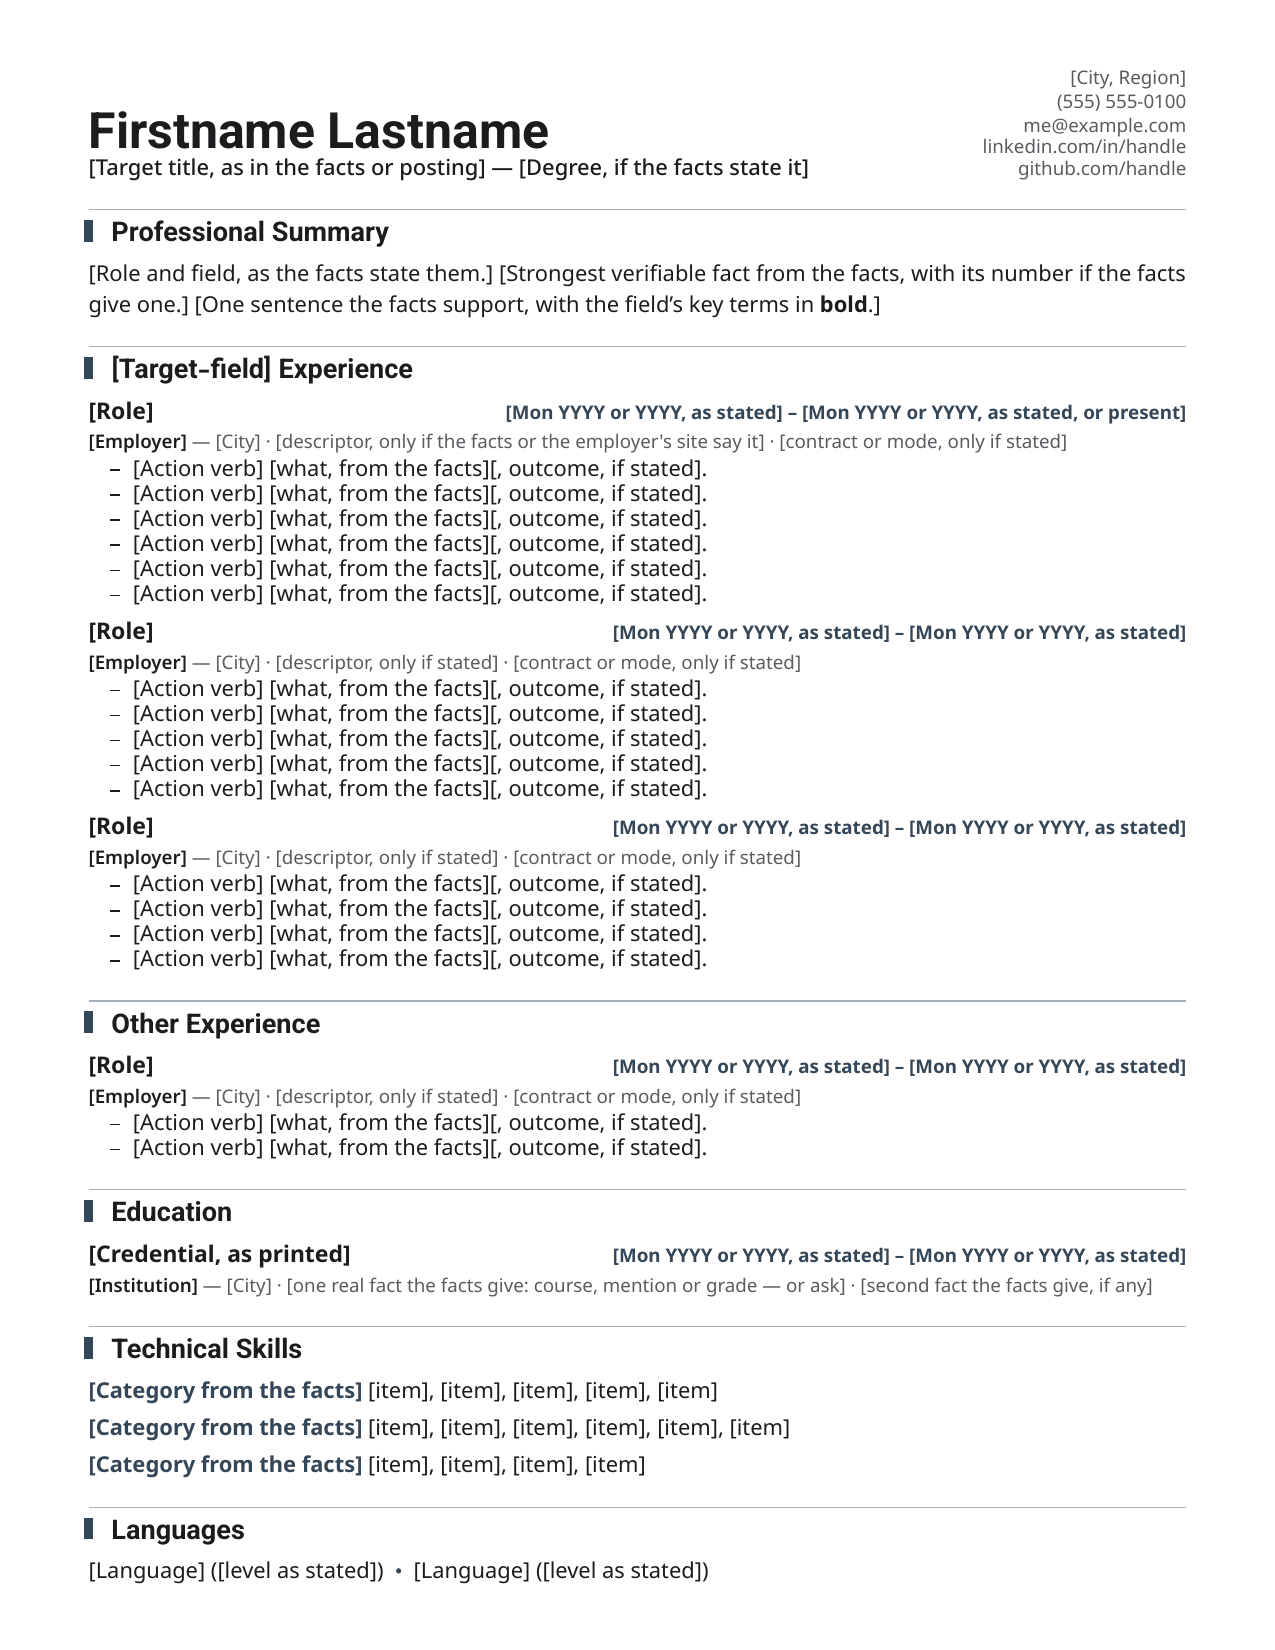
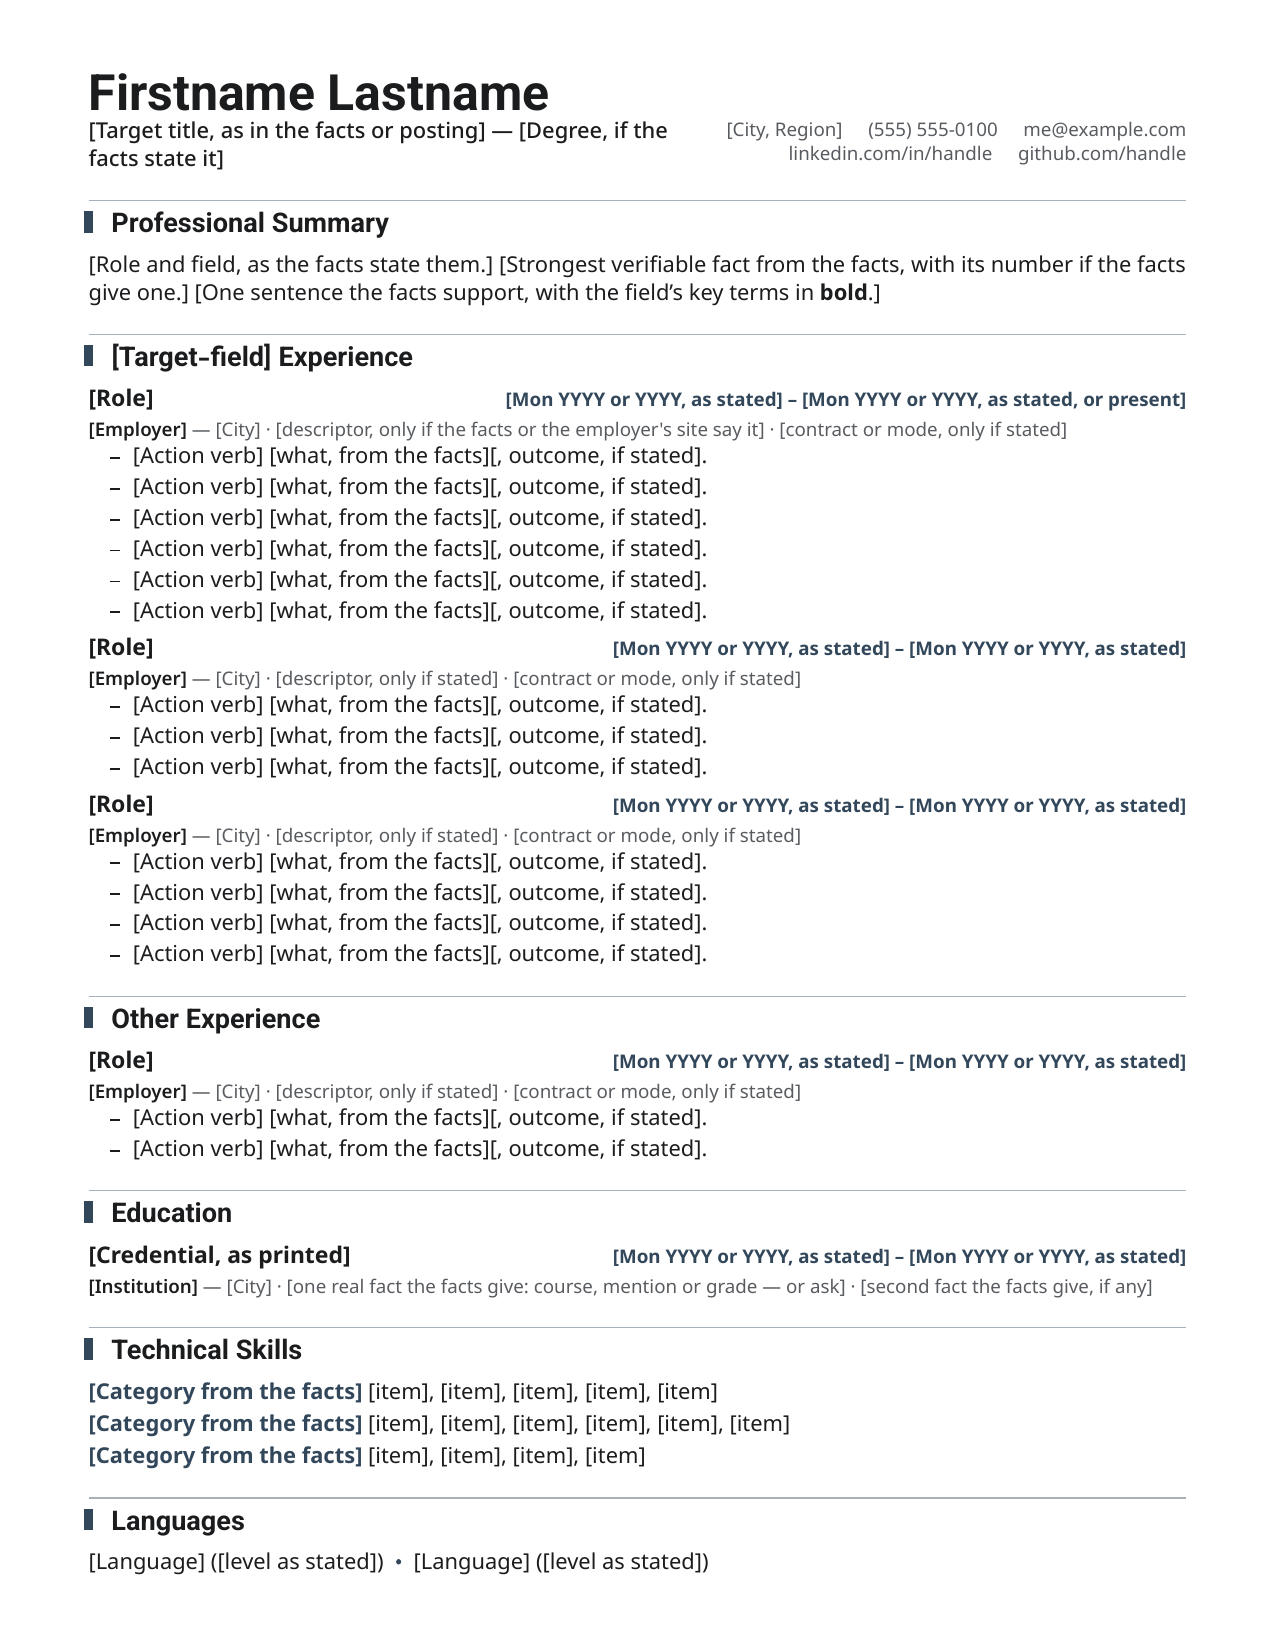
header-two-zone: docs and gallery follow-ups

diff --git a/references/ats.md b/references/ats.md
@@ -19,7 +19,7 @@ ATS systems and AI screeners index the *extracted text*, not the visual layout. 
 - **A full-width tinted PANEL per section ("a tile") is extraction-safe, and usually not worth it** (measured on `hard-edge`'s page shape): wrapping each section body in a `block(fill:, inset:, radius:)` left the reading order and every label↔value pair intact — the only diff was re-wrapping, from the narrower measure. What killed it was the page, not the parser: at `inset: (y: 7pt)` over eight sections it cost a full extra page. Available as a boundary device for a family that budgets for it.
 - **Two tiles SIDE BY SIDE (a two-column grid of panels) — rejected, with the constat** (measured, `gutter-rail`, two sections in one grid row): the reading order did *not* scramble at that size — poppler emitted the left tile whole, then the right one — so this is not the classic two-column failure. It fails on the other rule: halving the measure makes every structured row inside the tiles **wrap**, which is line integrity failing by construction, and each wrapped row then extracts as two fragments (`label evidence drawn from the CV itself, never a` / `bare adjective`). The safe form of the same idea is the panel entry above: tiles at **full width, stacked, with gaps**.
 - **Stacked cells inside a single-ROW grid break label↔value pairing** (verified): a "reference row" of three label/value pairs, built as a single-ROW grid whose each cell stacked a small bold LABEL over its VALUE, extracted as all three labels first and all three values after them (`LOCATION` / `AVAILABILITY` / `WORK AUTHORIZATION` / `City, Region` / `Two weeks' notice` / `Authorized to work`) — the pairing the device exists for, destroyed. This refines the single-ROW rule above: a single-row grid is safe **when each cell is ONE line**; the moment a cell stacks two lines, the extractor sweeps across the row before it descends and the pairs come apart. Fix: one flowing paragraph with run-in labels.
-- **A full-width row under a two-zone header gets its right end pulled into the other zone** (verified): with the identity block left and the contact column right, a reference row spanning the full measure below them extracted as `LOCATION City, Region` / `AVAILABILITY Two weeks' notice` / *the whole contact column* / `AUTHORIZATION Authorized to work`. poppler clusters by column before it reads by line, so a device that spans under a two-zone header must stay INSIDE one of the zones. Fix: put the row in the left cell.
+- **A full-width row under a two-zone header gets its right end pulled into the other zone** (verified): with the identity block left and the contact column right, a reference row spanning the full measure below them extracted as `LOCATION City, Region` / `AVAILABILITY Two weeks' notice` / *the whole contact column* / `AUTHORIZATION Authorized to work`. poppler clusters by column before it reads by line, so a device that spans under a two-zone header must stay INSIDE one of the zones. Fix: put the row in the left cell. Same cause, other readers: a contact column whose y-band overlaps the name glyphs is merged with the name by OCR, y-sort (MuPDF) and grid extractors, so `swiss-grid`, `editorial-serif` and `keyline-corporate` put the name on its own row, with the title left and a compact 2-line contact block right below it.
 - **A bordered `box(stroke: …)` around the skills LABEL breaks like a chip does** (verified): the label in a hard-bordered box tore the first two labels off their values and emitted them at the END of the section (`… METHODOLOGIES Agile / Scrum` / `LANGUAGES` / `BACKEND & DATA`). Same separate-text-cluster failure as a box around each item — it is the BOX that breaks it, not the position. Fix: a painted label (`highlight`), which stays inside the paragraph's run.
 - **`h(…)` next to a painted label breaks it the same way** (verified, same page shape): `srow([#stag(cat)#h(4pt)], items)` — an `h(4pt)` inserted to widen the gap between a `highlight`-painted label and its items — tore `LANGUAGES` and `MENTORING` off their values and emitted them at the end of their sections. Explicit spacing beside a `highlight` breaks the run exactly as a `box` does. Fix: shrink the `extent` so the field hugs the label and let the paragraph's own word space be the gap.
 - **Hyphenated compounds that wrap fuse in extraction** (verified): "motion-capture" breaking at the hyphen extracts as "motioncapture", which a keyword filter will not match. Write the unhyphenated form or wrap the token in `#box[...]`.
